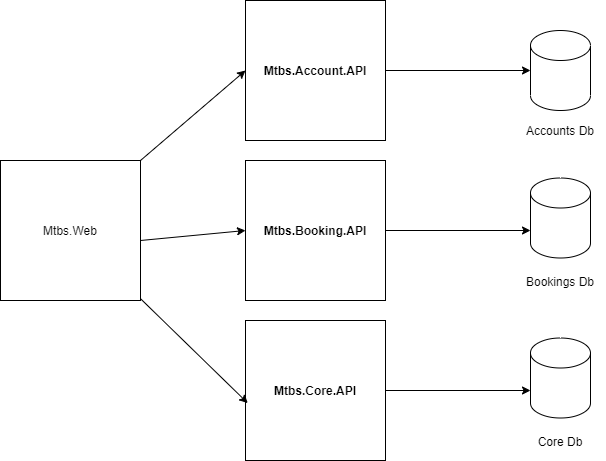
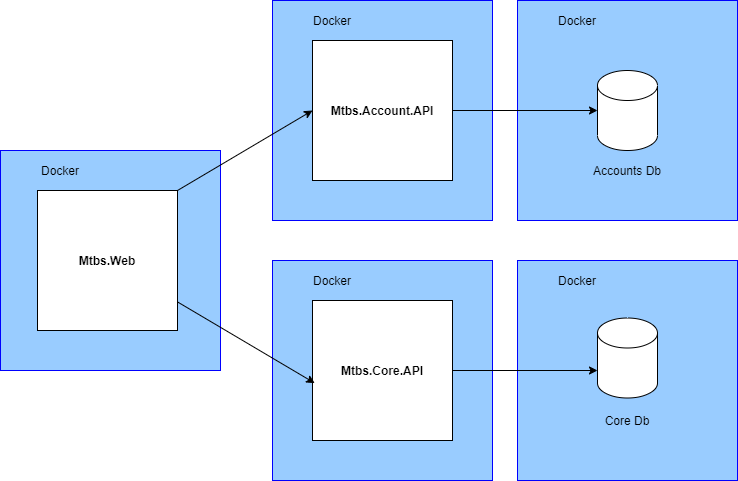
Updated architecture diagram

diff --git a/readme.md b/readme.md
@@ -28,8 +28,8 @@ https://localhost:51443/api/v1/Movies/{movieName}/Cinemas/{cinema}/Shows
 
 The System has three main components. Accounts service, Bookings service and Core service
 
-Core Service: supports the functionality to serach movies and view avaialability of the shows, Add new movies, Cinemas, shows etc.
-Accounts Service: supports the functionality to for admin and user to register, login, reset password etc.
-Booking Service: supports the functionality to book tickets for movies shows and retrieve the bookings etc.
+**Core Service:** supports the functionality to serach movies and view avaialability of the shows, Add new movies, Cinemas, shows, Booking Tickets etc.
+
+**Accounts Service:** supports the functionality to for admin and user to register, login, reset password etc.
 
 Each service is hosted under their own docker containers, with separate DBs for them.
